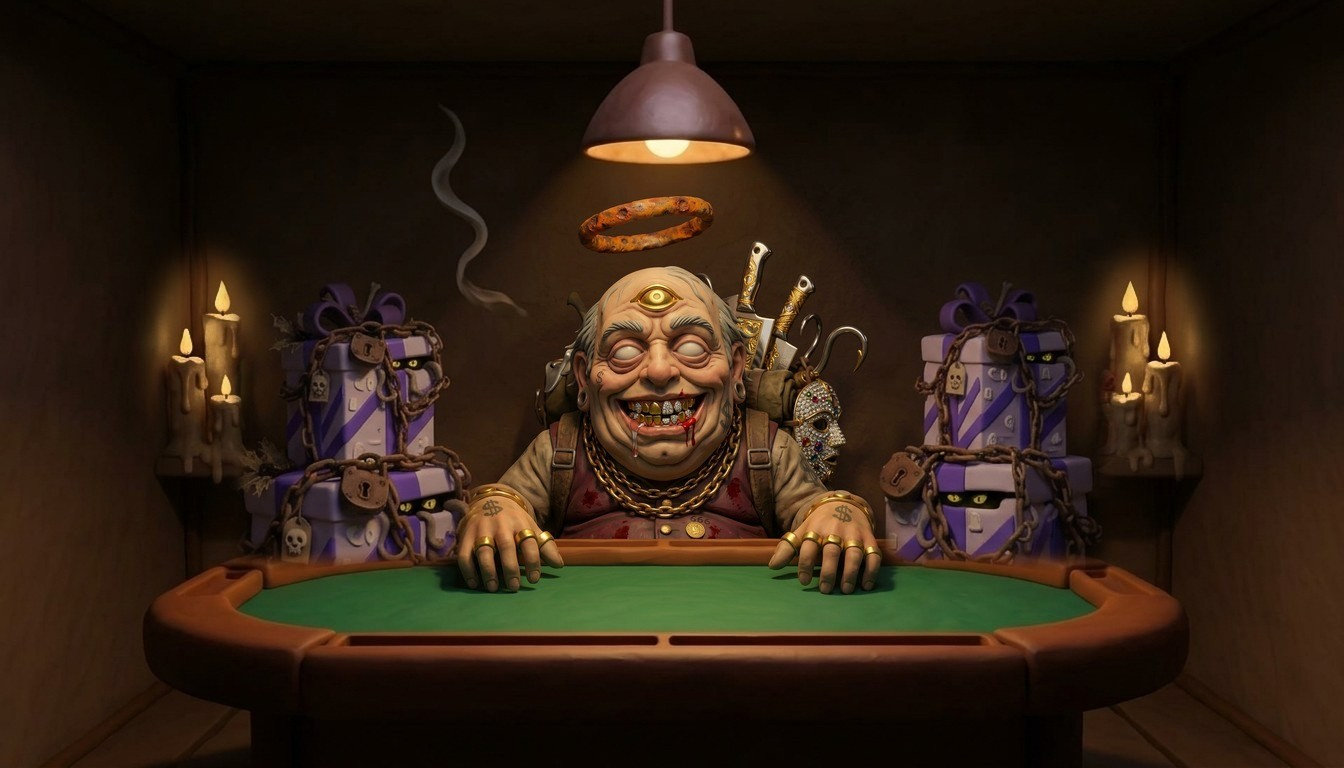
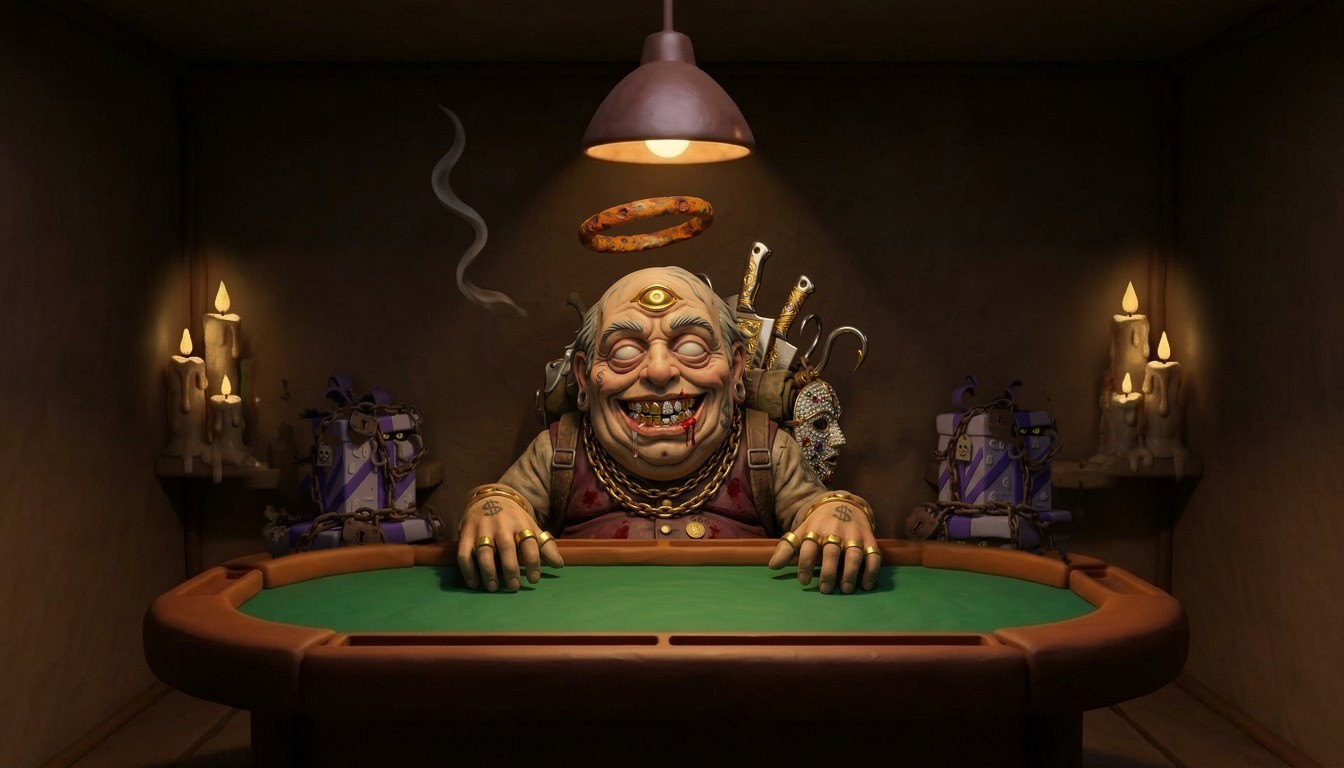
Peddler: box piles set back behind the table rail with rail shadow
Claude-Session: https://claude.ai/code/session_017UCt1yh6wM11RSMuh2VTku

Changed region(s): [[0.1562, 0.375, 0.3438, 0.75], [0.6562, 0.375, 0.8438, 0.75]]

diff --git a/docs/index.html b/docs/index.html
@@ -484,7 +484,7 @@ button{font:inherit;color:inherit}
     </section>
 
     <section class="scene" id="s-peddler" data-crumb="The Peddler" data-back="inside">
-      <img class="bg" src="img/craps.jpg?v=12" alt="A dark private craps room sculpted in clay: the grinning three-eyed Peddler leans on a green felt craps table under a single hanging lamp, two piles of lavender chained Nightmare Boxes stacked behind him, eyes peeking from under the lids" width="1344" height="768">
+      <img class="bg" src="img/craps.jpg?v=13" alt="A dark private craps room sculpted in clay: the grinning three-eyed Peddler leans on a green felt craps table under a single hanging lamp, two piles of lavender chained Nightmare Boxes stacked behind him, eyes peeking from under the lids" width="1344" height="768">
       <div class="fx" id="fx-peddler" aria-hidden="true"></div>
       <div class="dz" id="dz" aria-hidden="true"></div>
       <div class="hand" id="hand"><img id="handFist" src="img/arm-fist.png?v=5" alt="" width="640" height="677"><img id="handOpen" src="img/arm-open.png?v=5" alt="" width="640" height="677"></div>

diff --git a/site/world/index.html b/site/world/index.html
@@ -484,7 +484,7 @@ button{font:inherit;color:inherit}
     </section>
 
     <section class="scene" id="s-peddler" data-crumb="The Peddler" data-back="inside">
-      <img class="bg" src="img/craps.jpg?v=12" alt="A dark private craps room sculpted in clay: the grinning three-eyed Peddler leans on a green felt craps table under a single hanging lamp, two piles of lavender chained Nightmare Boxes stacked behind him, eyes peeking from under the lids" width="1344" height="768">
+      <img class="bg" src="img/craps.jpg?v=13" alt="A dark private craps room sculpted in clay: the grinning three-eyed Peddler leans on a green felt craps table under a single hanging lamp, two piles of lavender chained Nightmare Boxes stacked behind him, eyes peeking from under the lids" width="1344" height="768">
       <div class="fx" id="fx-peddler" aria-hidden="true"></div>
       <div class="dz" id="dz" aria-hidden="true"></div>
       <div class="hand" id="hand"><img id="handFist" src="img/arm-fist.png?v=5" alt="" width="640" height="677"><img id="handOpen" src="img/arm-open.png?v=5" alt="" width="640" height="677"></div>

diff --git a/site/world/page.html b/site/world/page.html
@@ -479,7 +479,7 @@ button{font:inherit;color:inherit}
     </section>
 
     <section class="scene" id="s-peddler" data-crumb="The Peddler" data-back="inside">
-      <img class="bg" src="img/craps.jpg?v=12" alt="A dark private craps room sculpted in clay: the grinning three-eyed Peddler leans on a green felt craps table under a single hanging lamp, two piles of lavender chained Nightmare Boxes stacked behind him, eyes peeking from under the lids" width="1344" height="768">
+      <img class="bg" src="img/craps.jpg?v=13" alt="A dark private craps room sculpted in clay: the grinning three-eyed Peddler leans on a green felt craps table under a single hanging lamp, two piles of lavender chained Nightmare Boxes stacked behind him, eyes peeking from under the lids" width="1344" height="768">
       <div class="fx" id="fx-peddler" aria-hidden="true"></div>
       <div class="dz" id="dz" aria-hidden="true"></div>
       <div class="hand" id="hand"><img id="handFist" src="img/arm-fist.png?v=5" alt="" width="640" height="677"><img id="handOpen" src="img/arm-open.png?v=5" alt="" width="640" height="677"></div>
